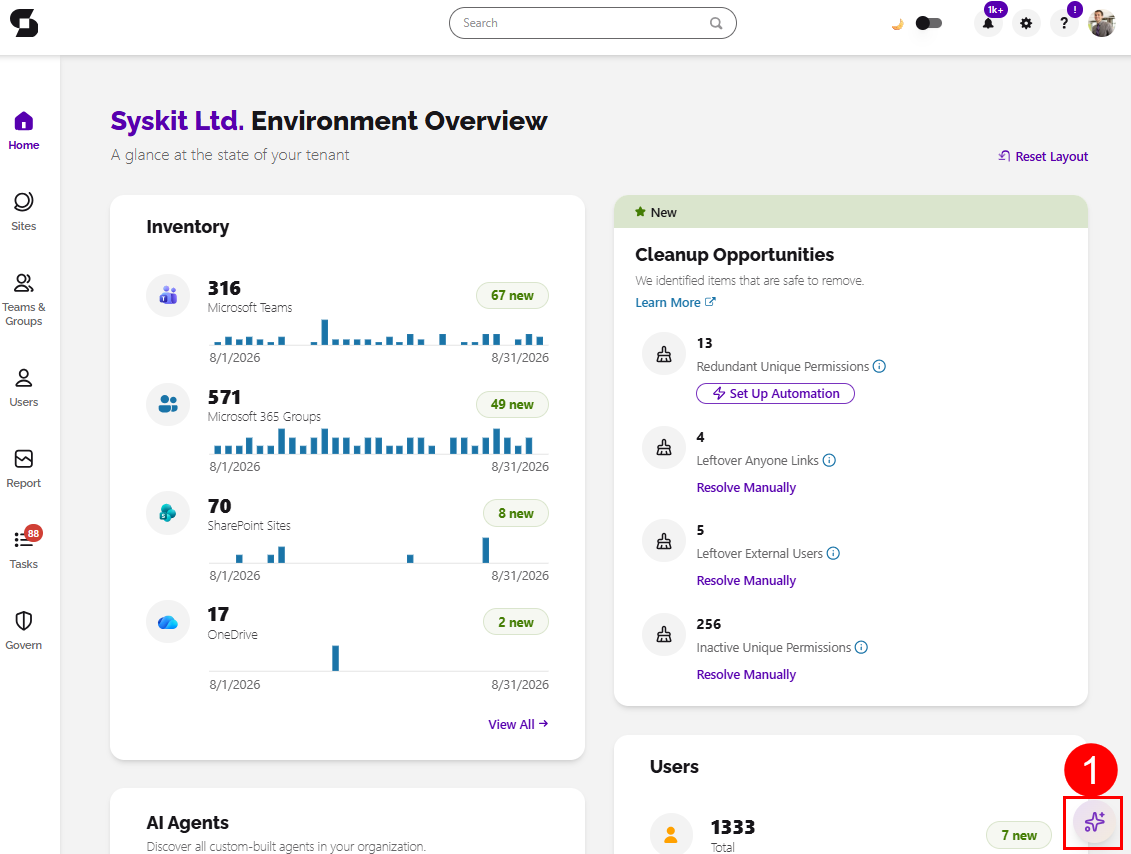
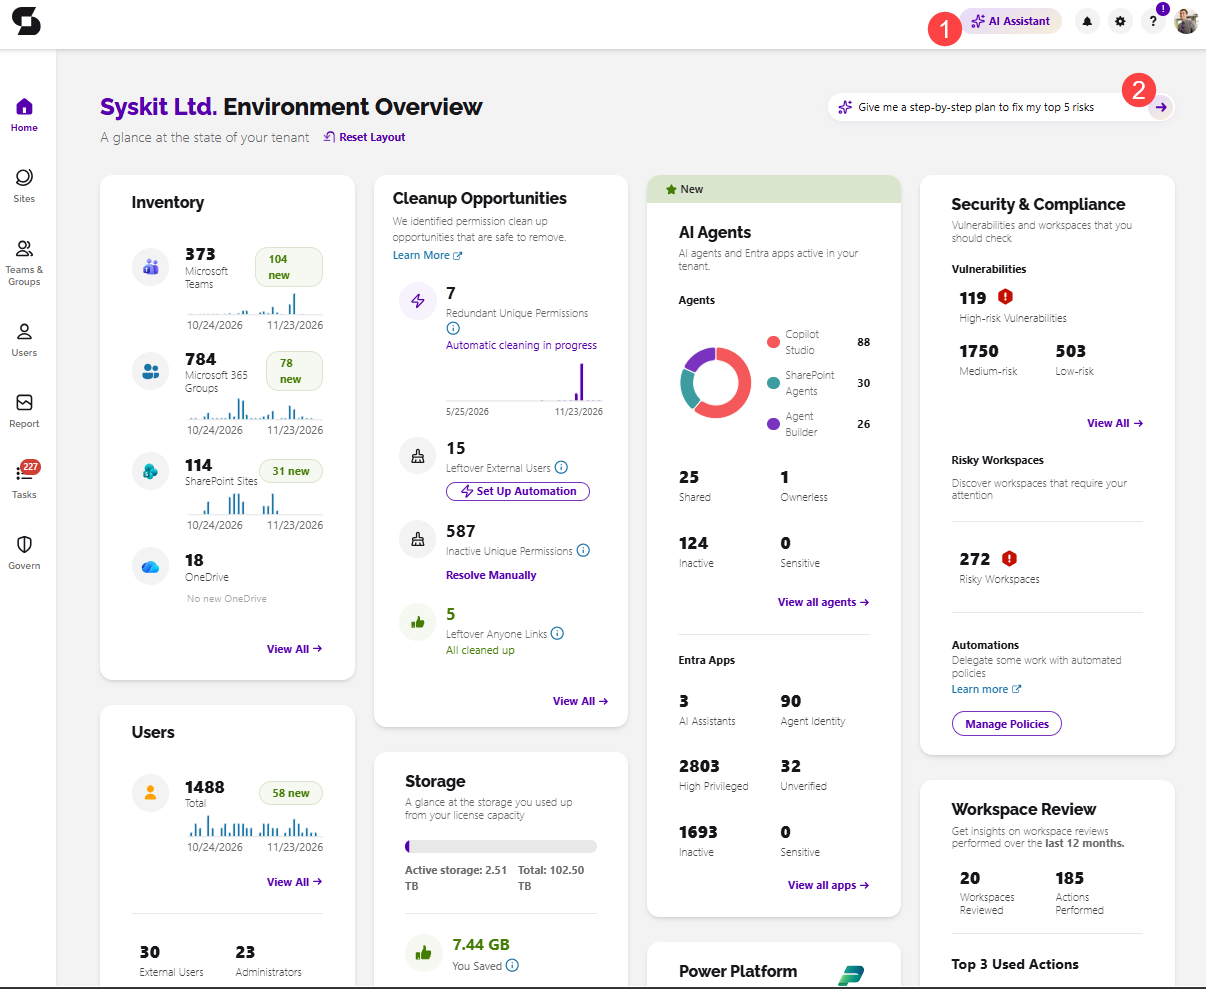
update

diff --git a/docs/ai-in-syskit-point/features/point-assistant.md b/docs/ai-in-syskit-point/features/point-assistant.md
@@ -26,9 +26,11 @@ Point Assistant lets you ask these everyday governance questions in plain langua
 To start using Point Assistant, complete the following:
 
 * In Syskit Point, **click the AI Assistant button (1)** in the page header.
-  * Point Assistant opens docked next to the page on wide screens and can be expanded to full screen.
-* **Type your question (2)** in plain language; no special syntax is needed.
-  * Alternatively, **select one of the suggested prompts (3)**.
+  * Alternatively, on the **Home** page, **click the arrow (2)** next to the suggested prompt in the top-right corner. This opens Point Assistant and asks that question right away.
+* **Point Assistant opens**, where you can ask questions about your Microsoft 365 environment.
+  * To switch to full screen, click the **expand** icon in the Point Assistant header.
+* **Type your question (3)** in plain language; no special syntax is needed.
+  * Alternatively, **select one of the suggested prompts (4)** shown above the message box.
 
 ![Syskit Point AI Assistant - Button](../../../static/img/point-assistant-ai-button.png)
 
